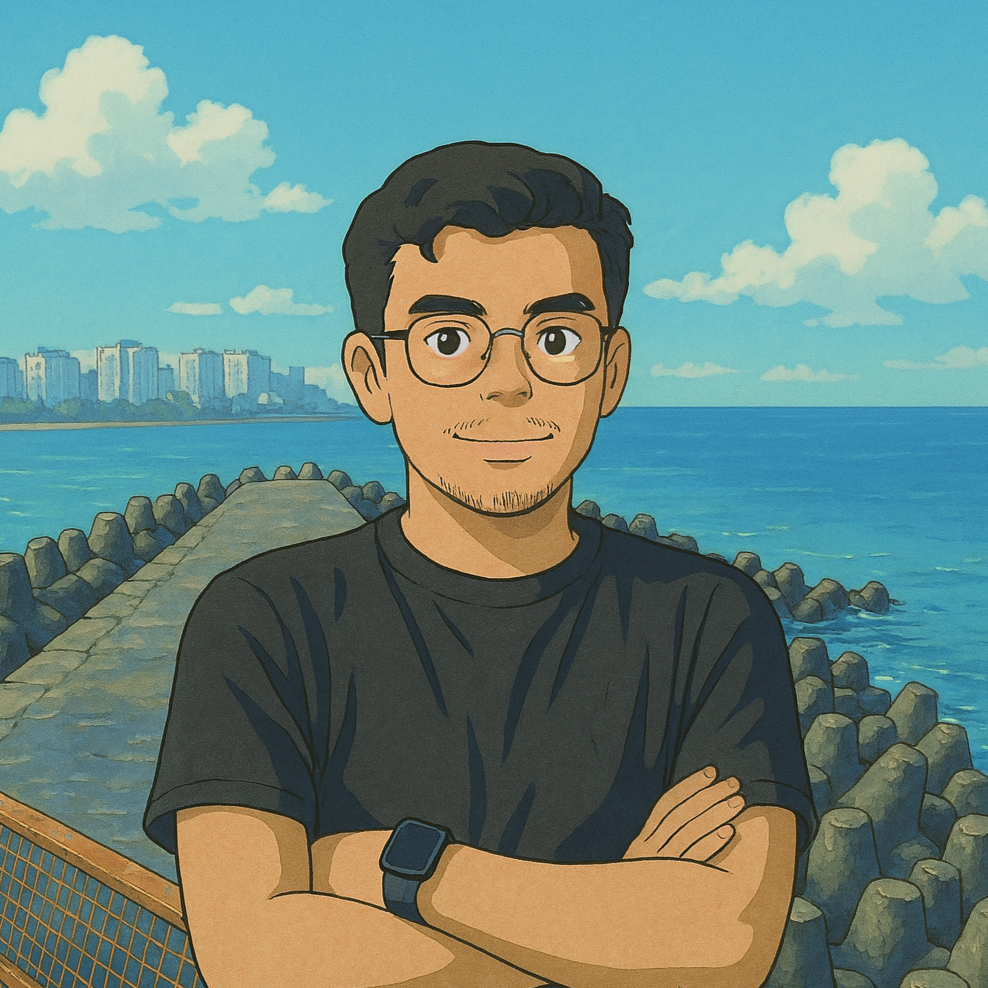
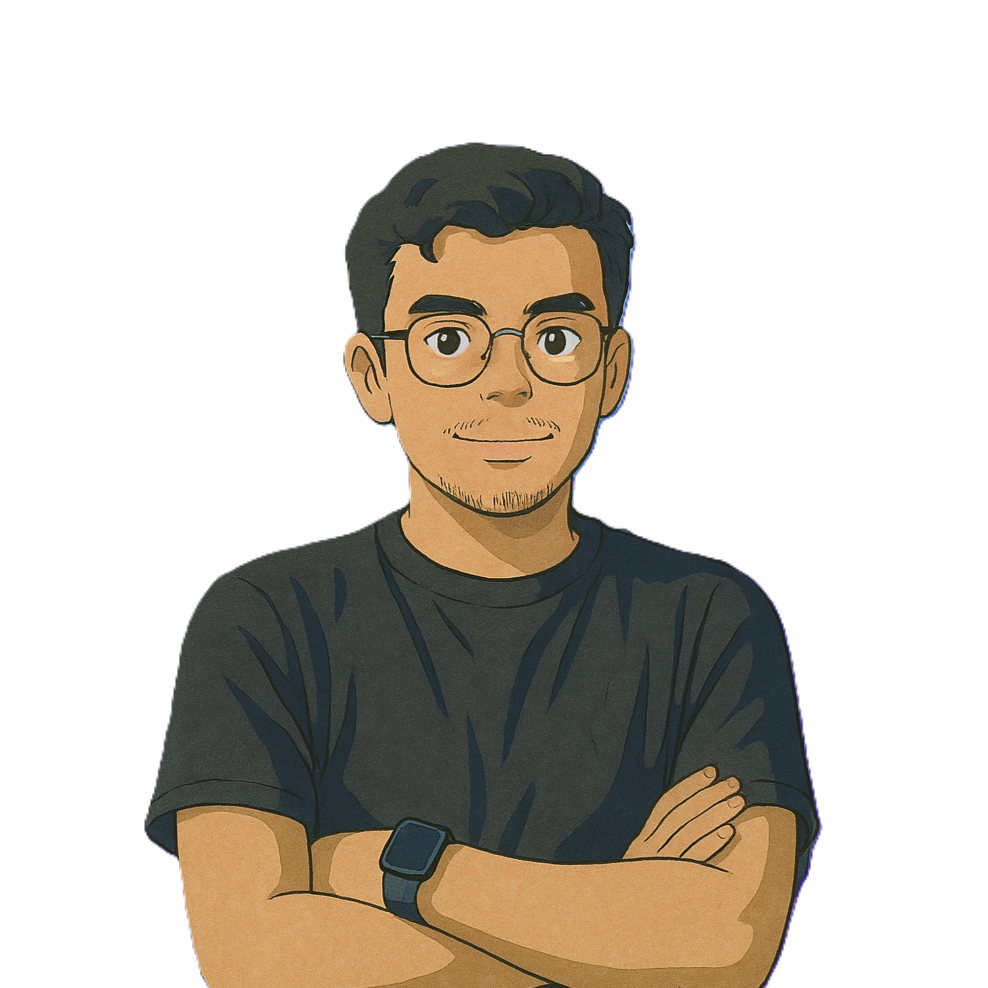
After completing Home Section

diff --git a/assets/css/styles.css b/assets/css/styles.css
@@ -28,16 +28,18 @@ ul {
     list-style: none;
 }
 
+h1{
+    font-size: 3.5rem;
+}
+
 /*Navbar CSS*/
 .header a{
     color: var(--second-color);
-    margin-left: 3rem;
-    margin-right: 20rem;
 }
 .nav {
     height: 3rem;
     display: flex;
-    justify-content: space-evenly;
+    justify-content: space-between;
     align-items: center;
     padding: 0.7rem 20rem;
     font-weight: 600;
@@ -88,10 +90,14 @@ ul {
   background-color: var(--first-color);
 }
 
+.nav_toggle {
+  display: none;
+}
+
 /*Home Section CSS*/
 
 .home{
-    height: 80vh;
+    height: 70vh;
     display: flex;
     justify-content: space-evenly;
     align-items: center;
@@ -100,15 +106,51 @@ ul {
     font-size: 1.5rem;
 }
 
-.home_data button{
-    width: 9rem;
-    height: 2.8rem;
-    color: white;
-    font-weight: 600;
-    font-size: 1rem;
-    background-color: var(--first-color);
-    border: none;
-    border-radius: 7px;
+.home_data button {
+  position: relative;
+  width: 9rem;
+  height: 2.8rem;
+  font-weight: 600;
+  font-size: 1rem;
+  color: white;
+  background-color: var(--first-color);
+  border-radius: 7px;
+  border: none;
+  cursor: pointer;
+  transition: 0.3s;
+}
+
+.home_data button::before {
+  content: "";
+  position: absolute;
+  inset: 0;
+  border-radius: 7px;
+  padding: 2px;
+  background: conic-gradient(
+    var(--first-color) 0deg,
+    var(--first-color) 0deg,
+    transparent 0deg
+  );
+  -webkit-mask: 
+      linear-gradient(#000 0 0) content-box, 
+      linear-gradient(#000 0 0);
+  -webkit-mask-composite: xor;
+          mask-composite: exclude;
+  transition: 0.6s ease;
+  opacity: 0;
+}
+
+.home_data button:hover {
+  background: transparent;
+  color: var(--first-color);
+}
+
+.home_data button:hover::before {
+  opacity: 1;
+  background: conic-gradient(
+    var(--first-color) 0deg,
+    var(--first-color) 360deg
+  );
 }
 .home_data svg{
     height: 2rem;
@@ -126,7 +168,13 @@ ul {
     color: var(--first-color);
 }
 
-#profile-img img{
-    height: 30rem;
+.profile-img{
+    height: 25rem;
+    background-color: var(--first-color);
+    border-radius: 100%;
+}
+
+.profile-img img{
+    height: 25rem;
     border-radius: 100%;
 }

diff --git a/index.html b/index.html
@@ -62,9 +62,10 @@
             </svg>            
         </div>
         <!-- Profile Image-->
-             <div id="profile-img">
-                <img src="./assets/img/my-profile-image-animated.png" alt="">
+             <div class="profile-img">
+                <img src="./assets/img/my-profile-image-animated.png" alt="kapil-profile-image">
              </div>
+             
     </section>
     <!--===== ABOUT =====-->
     <!--===== SKILLS =====-->
